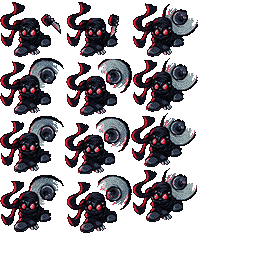
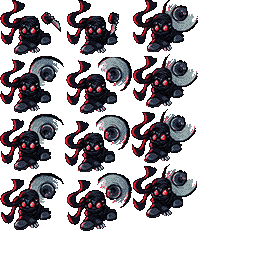
more hellclown

Changed region(s): [[0.0, 0.0, 0.7812, 0.9062]]

diff --git a/src/menu.c b/src/menu.c
@@ -70,10 +70,6 @@ static struct
 		{
 			fixed_t back_r, back_g, back_b;
 		} freeplay;
-		struct
-		{
-			fixed_t back_r, back_g, back_b;
-		} credits;
 	#ifdef PSXF_NETWORK
 		struct
 		{
@@ -273,7 +269,7 @@ void Menu_Load(MenuPage page)
 	FontData_Load(&menu.font_bold, Font_Bold);
 	FontData_Load(&menu.font_arial, Font_Arial);
 
-	menu.tricky = Char_MTicky_New(FIXED_DEC(-30, 1), FIXED_DEC(10, 1));
+	menu.tricky = Char_MTicky_New(FIXED_DEC(-30, 1), FIXED_DEC(30, 1));
 	stage.camera.x = stage.camera.y = FIXED_DEC(0, 1);
 	stage.camera.bzoom = FIXED_UNIT;
 	stage.MTicky_speed = 4;
@@ -950,42 +946,33 @@ void Menu_Tick(void)
 			static const struct
 			{
 				StageId stage;
-				u32 col;
 				const char *text;
 				boolean difficulty;
 			} menu_options[] = {
-				{StageId_Clwn_2, 0x080b95, "TRICKY PSX PORT", false},
-				{StageId_Kapi_1, 0x080b95, "LORD SCOUT", false},
-				{StageId_Clwn_1, 0x080b95, "", false},
-				{StageId_Kapi_2, 0xc003ab,"PSXFUNKIN", false},
-				{StageId_Kapi_1, 0xc003ab,"CUCKYDEV", false},
-				{StageId_Clwn_1, 0x080b95, "", false},
-				{StageId_Kapi_2, 0x423c41,"DIRECTOR AND ARTIST", false},
-				{StageId_Kapi_1, 0x423c41,"BANBUDS", false},
-				{StageId_Clwn_1, 0x080b95, "", false},
-				{StageId_Kapi_2, 0x016e07,"MUSICIAN AND CODER", false},
-				{StageId_Kapi_1, 0x016e07,"ROZEBUD", false},
-				{StageId_Clwn_1, 0x080b95, "", false},
-				{StageId_Kapi_2, 0xb20716,"PROGRAMMING", false},
-				{StageId_Kapi_1, 0xb20716,"KADEDEV", false},
-				{StageId_Clwn_1, 0x080b95, "", false},
-				{StageId_Kapi_2, 0xffffff,"CHARTING", false},
-				{StageId_Kapi_1, 0xffffff,"CVAL", false},
-				{StageId_Clwn_1, 0x080b95, "", false},
-				{StageId_Kapi_2, 0xc5ab0d,"COMPOSER", false},
-				{StageId_Clwn_1, 0xc5ab0d,"YINGYANG48", false},
-				{StageId_Kapi_1, 0xc5ab0d,"JADS", false},
-				{StageId_Clwn_1, 0x080b95, "", false},
-				{StageId_Kapi_2, 0x0dbfc5,"ARTIST", false},
-				{StageId_Kapi_1, 0x0dbfc5,"MORO", false},
-				{StageId_Clwn_1, 0x080b95, "", false},
-				{StageId_Kapi_2, 0x180c1d,"MENU MUSIC", false},
-				{StageId_Kapi_1, 0x180c1d,"TSURARAN", false},
-				{StageId_Clwn_1, 0x080b95, "", false},
-				{StageId_Kapi_2, 0xba6315,"SPECIAL THANKS", false},
-				{StageId_Clwn_1, 0xba6315,"IGORSOU3000", false},
-				{StageId_Clwn_2, 0xba6315,"KRINKLES", false},
-				{StageId_Clwn_1, 0xba6315,"TOM FULP", false},
+				{StageId_Kapi_1, "LORD SCOUT", false},
+				{StageId_Kapi_2, "  TRICKY PSX PORT", false},
+				{StageId_Clwn_1, "CUCKYDEV", false},
+				{StageId_Clwn_2, "	PSXFUNKIN", false},
+				{StageId_Clwn_2, "BANBUDS", false},
+				{StageId_Clwn_1, "	DIRECTOR AND ARTIST", false},
+				{StageId_Clwn_1, "ROZEBUD", false},
+				{StageId_Clwn_1, "	MUSICIAN AND CODER", false},
+				{StageId_Clwn_1, "KADEDEV", false},
+				{StageId_Clwn_1, "   PROGRAMMING", false},
+				{StageId_Clwn_2, "CVAL", false},
+				{StageId_Clwn_1, "	CHARTING", false},
+				{StageId_Clwn_1, "YINGYANG48", false},
+				{StageId_Clwn_1, "	COMPOSER", false},
+				{StageId_Clwn_1, "JADS", false},
+				{StageId_Clwn_1, "   COMPOSER", false},
+				{StageId_Clwn_1, "MORO", false},
+				{StageId_Clwn_1, "	ARTIST", false},
+				{StageId_Clwn_1, "TSURARAN", false},
+				{StageId_Clwn_1, "   MENU MUSIC", false},
+				{StageId_Clwn_1, "SPECIAL THANKS", false},
+				{StageId_Kapi_1, "	IGORSOU3000", false},
+				{StageId_Kapi_2, "	KRINKLES", false},
+				{StageId_Clwn_1, "  TOM FULP", false},
 			};
 			
 			//Initialize page
@@ -993,9 +980,6 @@ void Menu_Tick(void)
 			{
 				menu.scroll = COUNT_OF(menu_options) * FIXED_DEC(24 + SCREEN_HEIGHT2,1);
 				menu.page_param.stage.diff = StageDiff_Normal;
-				menu.page_state.credits.back_r = FIXED_DEC(255, 1);
-				menu.page_state.credits.back_g = FIXED_DEC(255, 1);
-				menu.page_state.credits.back_b = FIXED_DEC(255, 1);
 			}
 			
 			//Draw page label
@@ -1016,20 +1000,14 @@ void Menu_Tick(void)
 				//Change option
 				if (pad_state.press & PAD_UP)
 				{
-					if (menu.select > 0 && menu_options[menu.select].stage == StageId_Kapi_2)
-					menu.select = menu.select - 2;
-
-					else if (menu.select > 0)
+					if (menu.select > 0)
 						menu.select--;
 					else
 						menu.select = COUNT_OF(menu_options) - 1;
 				}
 				if (pad_state.press & PAD_DOWN)
 				{
-					if (menu.select < COUNT_OF(menu_options) - 1 && menu_options[menu.select].stage == StageId_Kapi_1)
-					menu.select = menu.select + 2;
-
-					else if (menu.select < COUNT_OF(menu_options) - 1)
+					if (menu.select < COUNT_OF(menu_options) - 1)
 						menu.select++;
 					else
 						menu.select = 0;
@@ -1060,26 +1038,17 @@ void Menu_Tick(void)
 				//Draw text
 				menu.font_bold.draw(&menu.font_bold,
 					Menu_LowerIf(menu_options[i].text, menu.select != i),
-					160,
+					48 + (y >> 2),
 					SCREEN_HEIGHT2 + y - 8,
-					FontAlign_Center
+					FontAlign_Left
 				);
 			}
 			
 			//Draw background
-			fixed_t tgt_r = (fixed_t)((menu_options[menu.select].col >> 16) & 0xFF) << FIXED_SHIFT;
-			fixed_t tgt_g = (fixed_t)((menu_options[menu.select].col >> 8) & 0xFF) << FIXED_SHIFT;
-			fixed_t tgt_b = (fixed_t)((menu_options[menu.select].col >> 0) & 0xFF) << FIXED_SHIFT;
-
-			menu.page_state.credits.back_r += (tgt_r - menu.page_state.credits.back_r) >> 4;
-			menu.page_state.credits.back_g += (tgt_g - menu.page_state.credits.back_g) >> 4;
-			menu.page_state.credits.back_b += (tgt_b - menu.page_state.credits.back_b) >> 4;
 			Menu_DrawBack(
 				true,
 				8,
-				menu.page_state.credits.back_r >> (FIXED_SHIFT + 1),
-				menu.page_state.credits.back_g >> (FIXED_SHIFT + 1),
-				menu.page_state.credits.back_b >> (FIXED_SHIFT + 1),
+				50 >> 1, 50 >> 1, 50 >> 1,
 				0, 0, 0
 			);
 			break;

diff --git a/src/stage/weekt3.c b/src/stage/weekt3.c
@@ -33,23 +33,31 @@ typedef struct
 } Back_WeekT3;
 
 //Henchmen animation and rects
-static const CharFrame henchmen_frame[10] = {
-	{0, {  0,   0,  61,  55}, { 71,  98}}, //0 left 1
-	{0, { 99,   0,  99,  98}, { 71,  97}}, //1 left 2
-	{0, {  0,  99,  98,  97}, { 69,  95}}, //2 left 3
-	{0, { 98,  98,  62,  89}, { 42,  88}}, //3 left 4
-	{0, {160,  98,  62,  89}, { 42,  88}}, //4 left 5
+static const CharFrame henchmen_frame[18] = {
+	{0, {  0,   0,  61,  55}, { 37,  46}}, //0 left 1
+	{0, { 62,   0,  62,  55}, { 37,  45}}, //1 left 2
+	{0, {125,   0,  60,  55}, { 37,  46}}, //2 left 3
+	{0, {186,   0,  61,  54}, { 39,  46}}, //3 left 4
+	{0, {  0,  56,  62,  55}, { 37,  46}}, //4 left 5
+	{0, { 64,  57,  62,  55}, { 37,  46}}, //5 left 5
 	
-	{1, {  0,   0, 101, 103}, { 35, 101}}, //5 right 1
-	{1, {101,   0,  99, 101}, { 33, 100}}, //6 right 2
-	{1, {  0, 103,  99, 101}, { 33,  99}}, //7 right 3
-	{1, { 99, 101,  64,  90}, { 26,  89}}, //8 right 4
-	{1, {163, 101,  64,  90}, { 26,  89}}, //9 right 5
+	{1, {  0,   0, 61, 55}, { 37,  46}}, //6 right 1
+	{1, { 67,   0, 52, 55}, { 37,  45}}, //7 right 2
+	{1, {133,   0,  65, 53}, { 37,  43}}, //8 right 3
+	{1, {  0,  56,  64,  57}, { 37,  47}}, //9 right 4
+	{1, { 66,  58,  66,  57}, { 37,  47}}, //10 right 5
+	{1, {134,  55,  65,  54}, { 37,  44}}, //11 right 1
+	{1, {  0, 114,  64,  57}, { 37,  47}}, //12 right 2
+	{1, { 66, 116,  65,  57}, { 36,  48}}, //13 right 3
+	{1, {132, 110,  65,  54}, { 37,  44}}, //14 right 4
+	{1, {  0, 173,  64,  57}, { 37,  47}}, //15 right 5
+	{1, { 68, 173,  65,  58}, { 37,  48}}, //16 right 4
+	{1, {133, 164,  64,  54}, { 37,  44}}, //17 right 5
 };
 
 static const Animation henchmen_anim[2] = {
-	{2, (const u8[]){0, 1, 1, 2, 2, 3, 4, ASCR_BACK, 1}}, //Left
-	{2, (const u8[]){5, 6, 6, 7, 7, 8, 9, ASCR_BACK, 1}}, //Right
+	{2, (const u8[]){ 3, 3, 3, 4, 5, 0, 1, 2, 3, 3, 3, 3, 4, 5, 0, 1, 3, ASCR_BACK, 1}}, //Left
+	{1, (const u8[]){6, 6, 7, 8, 8, 9, 9, 10, 10, 11, 11, 12, 12, 13, 13, 14, 14, 15, 15, 16, 16, 17, 17, ASCR_BACK, 1}}, //Right
 };
 
 //Henchmen functions
@@ -104,7 +112,7 @@ void Back_WeekT3_DrawBG(StageBack *back)
 	}
 	Animatable_Animate(&this->hench_animatable, (void*)this, WeekT3_Henchmen_SetFrame);
 	
-	WeekT3_Henchmen_Draw(this,  FIXED_DEC(50,1) - fx, FIXED_DEC(30,1) - fy);
+	WeekT3_Henchmen_Draw(this,  FIXED_DEC(50,1) - fx, FIXED_DEC(20,1) - fy);
 
 	//Draw sunset
 	fx = stage.camera.x;
@@ -113,9 +121,9 @@ void Back_WeekT3_DrawBG(StageBack *back)
 	RECT sunset_src = {0, 0, 256, 256};
 	RECT_FIXED sunset_dst = {
 		FIXED_DEC(-410,1) - fx,
-		FIXED_DEC(-100,1) - fy,
+		FIXED_DEC(-120,1) - fy,
 		FIXED_DEC(450,1),
-		FIXED_DEC(315,1)
+		FIXED_DEC(340,1)
 	};
 	
 	Stage_DrawTex(&this->tex_back1, &sunset_src, &sunset_dst, stage.camera.bzoom);
@@ -123,9 +131,9 @@ void Back_WeekT3_DrawBG(StageBack *back)
 	RECT sunset1_src = { 0, 0, 256, 256 };
 	RECT_FIXED sunset1_dst = {
 		FIXED_DEC(-50,1) - fx,
-		FIXED_DEC(-100,1) - fy,
+		FIXED_DEC(-120,1) - fy,
 		FIXED_DEC(450,1),
-		FIXED_DEC(315,1)
+		FIXED_DEC(340,1)
 	};
 
 	Stage_DrawTex(&this->tex_back2, &sunset1_src, &sunset1_dst, stage.camera.bzoom);

diff --git a/src/character/hellc.c b/src/character/hellc.c
@@ -104,7 +104,7 @@ static const CharFrame char_hellc_frame[] = {
 };
 
 static const Animation char_hellc_anim[CharAnim_Max] = {
-	{1, (const u8[]){ 0, 0, 1, 1, 2, 2, 3, 3, 4, 4, 5, 5, 6, 6, 7, 7, 0, 0, 1, 1, 2, 2, 3, 3, 4, 4, 5, 5, 6, 6, 7, 7, 0, 0, 1, 1, 2, 2, 3, 3, 4, 4, 5, 5, 6, 6, 7, 7, 0, 0, 1, 1, 2, 2, 3, 3, 4, 4, 5, 5, 6, 6, 7, 7, 0, 0, 1, 1, 2, 2, 3, 3, 4, 4, 5, 5, 6, 6, 7, 7, 0, 0, 1, 1, 2, 2, 3, 3, 4, 4, 5, 5, 6, 6, 7, 7, 0, 0, 1, 1, 2, 2, 3, 3, 4, 4, 5, 5, 6, 6, 7, 7, 0, 0, 1, 1, 2, 2, 3, 3, 4, 4, 5, 5, 6, 6, 7, 7, 0, 0, 1, 1, 2, 2, 3, 3, 4, 4, 5, 5, 6, 6, 7, 7, 0, 0, 1, 1, 2, 2, 3, 3, 4, 4, 5, 5, 6, 6, 7, 7, 0, 0, 1, 1, 2, 2, 3, 3, 4, 4, 5, 5, 6, 6, 7, 7, 0, 0, 1, 1, 2, 2, 3, 3, 4, 4, 5, 5, 6, 6, 7, 7, ASCR_BACK, 1}}, //CharAnim_Idle
+	{2, (const u8[]){ 0, 0, 1, 1, 2, 2, 3, 3, 4, 4, 5, 5, 6, 6, 7, 7, 0, 0, 1, 1, 2, 2, 3, 3, 4, 4, 5, 5, 6, 6, 7, 7, 0, 0, 1, 1, 2, 2, 3, 3, 4, 4, 5, 5, 6, 6, 7, 7, 0, 0, 1, 1, 2, 2, 3, 3, 4, 4, 5, 5, 6, 6, 7, 7, 0, 0, 1, 1, 2, 2, 3, 3, 4, 4, 5, 5, 6, 6, 7, 7, 0, 0, 1, 1, 2, 2, 3, 3, 4, 4, 5, 5, 6, 6, 7, 7, 0, 0, 1, 1, 2, 2, 3, 3, 4, 4, 5, 5, 6, 6, 7, 7, 0, 0, 1, 1, 2, 2, 3, 3, 4, 4, 5, 5, 6, 6, 7, 7, 0, 0, 1, 1, 2, 2, 3, 3, 4, 4, 5, 5, 6, 6, 7, 7, 0, 0, 1, 1, 2, 2, 3, 3, 4, 4, 5, 5, 6, 6, 7, 7, 0, 0, 1, 1, 2, 2, 3, 3, 4, 4, 5, 5, 6, 6, 7, 7, 0, 0, 1, 1, 2, 2, 3, 3, 4, 4, 5, 5, 6, 6, 7, 7, ASCR_BACK, 1}}, //CharAnim_Idle
 	{2, (const u8[]){ 8, 9, 10, 11, 12, 13, ASCR_BACK, 1}},         //CharAnim_Left
 	{0, (const u8[]){ASCR_CHGANI, CharAnim_Idle}},   //CharAnim_LeftAlt
 	{2, (const u8[]){ 14, 15, 16, 17, 18, 19, ASCR_BACK, 1}},         //CharAnim_Down

diff --git a/src/character/bfph3.c b/src/character/bfph3.c
@@ -80,7 +80,7 @@ static const CharFrame char_bfph3_frame[] = {
 	{BFPH3_ArcMain_BF0, {123,   0,  41,  41}, { 23,  37}}, //3 idle 4
 	{BFPH3_ArcMain_BF0, {165,  0,  41,  41}, { 23,  37}}, //4 idle 5
 	{BFPH3_ArcMain_BF0, {0,   40,  41,  41}, { 23,  37}}, //5 idle 4
-	{BFPH3_ArcMain_BF0, { 42,  40,  42,  41}, { 23,  36}}, //6 idle 5
+	{BFPH3_ArcMain_BF0, { 42,  40,  42,  41}, { 23,  37}}, //6 idle 5
 	
 	{BFPH3_ArcMain_BF0, { 86,  42,  37,  40}, { 21,  36}}, //7 left 1
 	{BFPH3_ArcMain_BF0, {124,  43,  36,  40}, { 21,  36}}, //8 left 2
@@ -381,7 +381,7 @@ Character *Char_BFPH3_New(fixed_t x, fixed_t y)
 	
 	this->character.focus_x = FIXED_DEC(-30, 1);
 	this->character.focus_y = FIXED_DEC(-60, 1);
-	this->character.focus_zoom = FIXED_DEC(1, 1);
+	this->character.focus_zoom = FIXED_DEC(10, 10);
 	
 	//Load art
 	this->arc_main = IO_Read("\\CHAR\\BFPH3.ARC;1");

diff --git a/src/stage.c b/src/stage.c
@@ -23,7 +23,7 @@
 #include "object/splash.h"
 
 //Stage constants
-//#define STAGE_PERFECT //Play all notes perfectly
+#define STAGE_PERFECT //Play all notes perfectly
 //#define STAGE_NOHUD //Disable the HUD
 
 int shake = 0;
@@ -32,7 +32,7 @@ int botthing = 0;
 
 
 
-//#define STAGE_FREECAM //Freecam
+#define STAGE_FREECAM //Freecam
 
 static const fixed_t note_x[8] = {
 	//BF
